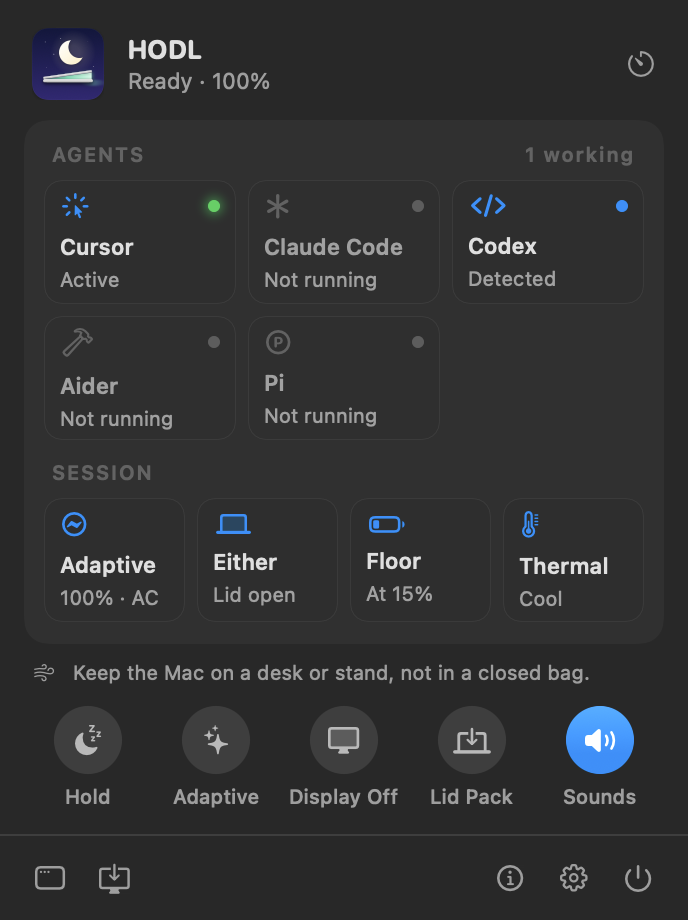
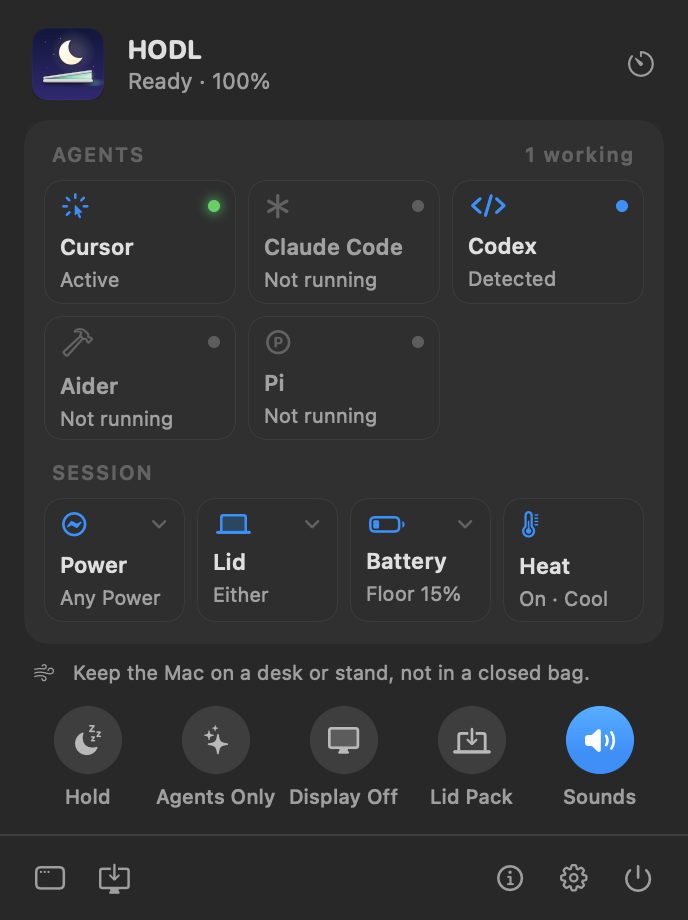
Label the panel tiles by what they control
Tiles now read Power, Lid, Battery, and Heat with the current choice
underneath, and menu tiles show a chevron. The power mode Adaptive is
now Any Power and the Adaptive switch is Agents Only, so one word no
longer means two things.

diff --git a/Sources/HODL/UI/MenuPanel.swift b/Sources/HODL/UI/MenuPanel.swift
@@ -137,8 +137,7 @@ struct MenuPanel: View {
                     }
                     .pickerStyle(.inline)
                 } label: {
-                    Tile(symbol: powerMode.symbol, title: powerMode.title, value: power.hasBattery ? "\(power.batteryLabel)\(power.onAC ? " · AC" : "")" : "AC power",
-                         tint: .accentColor)
+                    Tile(symbol: powerMode.symbol, title: "Power", value: powerMode.title, tint: .accentColor) { MenuChevron() }
                 }
                 .menuStyle(.button).buttonStyle(.plain).menuIndicator(.hidden)
                 .help(Text(verbatim: powerMode.detail))
@@ -149,8 +148,8 @@ struct MenuPanel: View {
                     }
                     .pickerStyle(.inline)
                 } label: {
-                    Tile(symbol: power.lidClosed ? "laptopcomputer.slash" : "laptopcomputer", title: lidPolicy.title,
-                         value: power.lidClosed ? "Lid closed" : "Lid open", tint: .accentColor)
+                    Tile(symbol: power.lidClosed ? "laptopcomputer.slash" : "laptopcomputer", title: "Lid",
+                         value: lidPolicy.short, tint: .accentColor) { MenuChevron() }
                 }
                 .menuStyle(.button).buttonStyle(.plain).menuIndicator(.hidden)
                 .help(Text(verbatim: lidPolicy.detail))
@@ -161,8 +160,8 @@ struct MenuPanel: View {
                     }
                     .pickerStyle(.inline)
                 } label: {
-                    Tile(symbol: "battery.25percent", title: "Floor", value: "At \(batteryFloor)%",
-                         tint: power.lowPowerMode ? .yellow : .accentColor)
+                    Tile(symbol: "battery.25percent", title: "Battery", value: "Floor \(batteryFloor)%",
+                         tint: power.lowPowerMode ? .yellow : .accentColor) { MenuChevron() }
                 }
                 .menuStyle(.button).buttonStyle(.plain).menuIndicator(.hidden)
                 .help(Text("HODL lets the Mac sleep when the battery reaches this level.\(power.lowPowerMode ? " Low Power Mode is on." : "")"))
@@ -170,7 +169,7 @@ struct MenuPanel: View {
                 Button {
                     thermalGuard.toggle()
                 } label: {
-                    Tile(symbol: "thermometer.medium", title: "Thermal", value: thermalGuard ? power.thermalTitle : "Guard off",
+                    Tile(symbol: "thermometer.medium", title: "Heat", value: thermalGuard ? "On · \(power.thermalTitle)" : "Off",
                          tint: power.thermal.rawValue >= ProcessInfo.ThermalState.serious.rawValue ? .orange : .accentColor,
                          dimmed: !thermalGuard)
                 }
@@ -246,7 +245,7 @@ struct MenuPanel: View {
                 get: { engine.session != nil },
                 set: { $0 ? engine.hold() : engine.release(.user) }
             ), help: "Keep the Mac awake overnight (⌥⌘L). Ends on its own when the session timer runs out.")
-            QuickSwitch(symbol: "sparkles", title: "Adaptive", isOn: $adaptive,
+            QuickSwitch(symbol: "sparkles", title: "Agents Only", isOn: $adaptive,
                         help: "Hold only while an agent is working, and let go after it has been idle for a while.")
             QuickSwitch(symbol: "display", title: "Display Off", isOn: $displayOff,
                         help: "Turn the display off when a hold starts. The Mac stays awake.")

diff --git a/Sources/HODL/Model/Policy.swift b/Sources/HODL/Model/Policy.swift
@@ -7,7 +7,7 @@ enum PowerMode: String, CaseIterable, Identifiable, Codable, Sendable {
 
     var title: String {
         switch self {
-        case .adaptive: "Adaptive"
+        case .adaptive: "Any Power"
         case .ac: "AC Only"
         case .battery: "Battery"
         }
@@ -48,6 +48,15 @@ enum LidPolicy: String, CaseIterable, Identifiable, Codable, Sendable {
         case .either: "Hold with the lid open or closed."
         case .closed: "Hold only while the lid is closed. With the lid open, macOS sleeps as usual."
         case .open: "Hold only while the lid is open. Closing it lets the Mac sleep."
+        }
+    }
+
+    /// Fits the panel tile.
+    var short: String {
+        switch self {
+        case .either: "Either"
+        case .closed: "Closed"
+        case .open: "Open"
         }
     }
 

diff --git a/Sources/HODL/UI/SettingsView.swift b/Sources/HODL/UI/SettingsView.swift
@@ -109,7 +109,7 @@ struct SettingsView: View {
                 Text("A no-limit hold still stops for battery, heat, and unplugging, and is restored if HODL quits or crashes.")
                     .font(.caption).foregroundStyle(.secondary)
             }
-            Section("Adaptive") {
+            Section("Agents Only") {
                 Toggle("Hold only while an agent is working", isOn: $adaptive)
                 Picker("Let go after agents are idle for", selection: $idleMinutes) {
                     ForEach([2, 5, 10, 15, 20, 30], id: \.self) { Text("\($0) minutes").tag($0) }

diff --git a/Sources/HODL/UI/Components.swift b/Sources/HODL/UI/Components.swift
@@ -77,6 +77,15 @@ extension Tile where Accessory == EmptyView {
     }
 }
 
+/// Marks a tile that opens a menu.
+struct MenuChevron: View {
+    var body: some View {
+        Image(systemName: "chevron.down")
+            .font(.system(size: 8, weight: .bold))
+            .foregroundStyle(.tertiary)
+    }
+}
+
 struct StatusDot: View {
     let state: AgentState
 

diff --git a/README.md b/README.md
@@ -42,14 +42,14 @@ The pipeline matches [Where’d It Go](https://github.com/deepujain/whereditgo):
 
 **Hold while an app runs.** Add apps in Settings › Hold. When one opens, HODL holds until it quits, up to the hard maximum. Release it by hand and HODL leaves that app alone until it next opens.
 
-**Power modes.** *Adaptive* holds on AC or battery and turns on Low Power Mode at a soft floor (40%) before the hard stop. *AC Only* holds only while plugged in. *Battery* holds down to the floor with no Low Power step. Assertions are recreated whenever the power source changes, so a plug or unplug with the lid closed doesn’t slip through.
+**Power modes.** *Any Power* holds on AC or battery and turns on Low Power Mode at a soft floor (40%) before the hard stop. *AC Only* holds only while plugged in. *Battery* holds down to the floor with no Low Power step. Assertions are recreated whenever the power source changes, so a plug or unplug with the lid closed doesn’t slip through.
 
 **Lid policy.** Hold with the lid open, closed, or either.
 
 **Agents.** HODL watches Cursor, Claude Code, Codex, Aider, Pi, OpenCode, Gemini CLI, Copilot CLI, Windsurf, and Cline. Each shows as Active, Idle, Detected, or Not running.
 - **Hooks first.** One click (or `hodl install-hooks`) adds Working/Idle hooks to Claude Code, Codex, Cursor, and OpenCode, so HODL tracks each session separately and knows exactly when it’s working. Existing hooks are kept; Codex’s existing `notify` command is chained, not replaced. Every edited file is backed up as `.hodl-backup`.
 - **Processes as a fallback.** Without hooks, HODL matches executable paths and bundle IDs and estimates work from CPU use across each agent’s process tree.
-- **Adaptive hold.** With Adaptive on, HODL holds only while an agent is working and lets go after a configurable idle timeout (10 minutes by default).
+- **Agents Only.** With Agents Only on, HODL holds only while an agent is working and lets go after a configurable idle timeout (10 minutes by default).
 - **Privacy.** HODL never reads code, prompts, or terminal output. Hooks send only the agent name, its state, and a session ID; for interpreters, HODL reads only the script path.
 
 **Lid pack.** When the lid closes during a hold: dim the display and keyboard backlight, mute sound, pause Slack, Discord, and WhatsApp (`SIGSTOP`), and optionally pause every other Dock app, turn on Low Power Mode, and lock the screen. Agents, terminals, meeting apps (Zoom, Teams, Webex, FaceTime, OBS, Loom), browsers, editors, and Apple’s own apps are never paused. Everything resumes when the lid opens or the hold ends.
